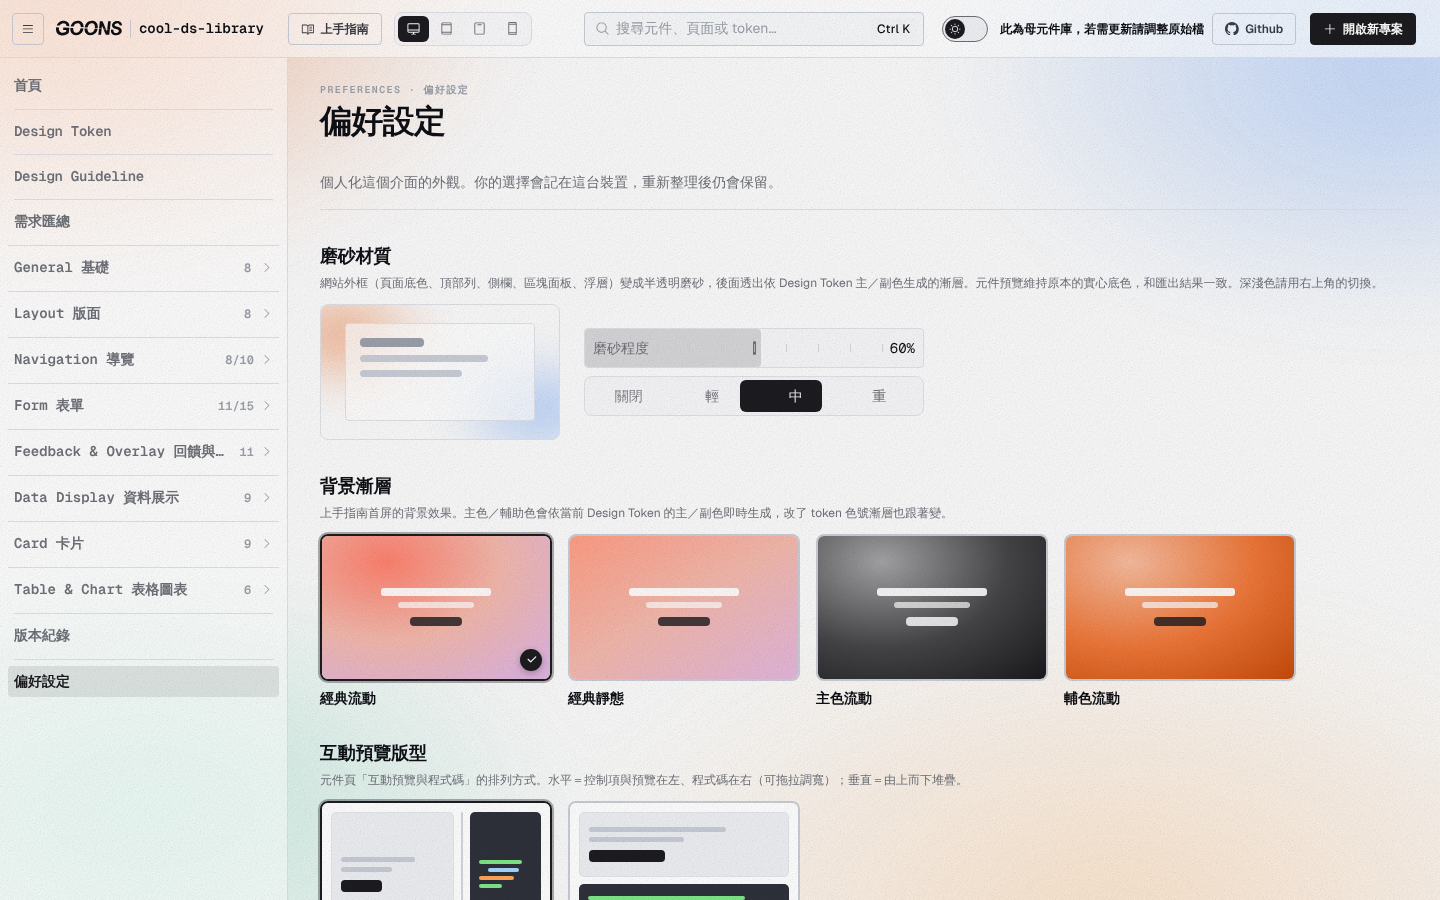
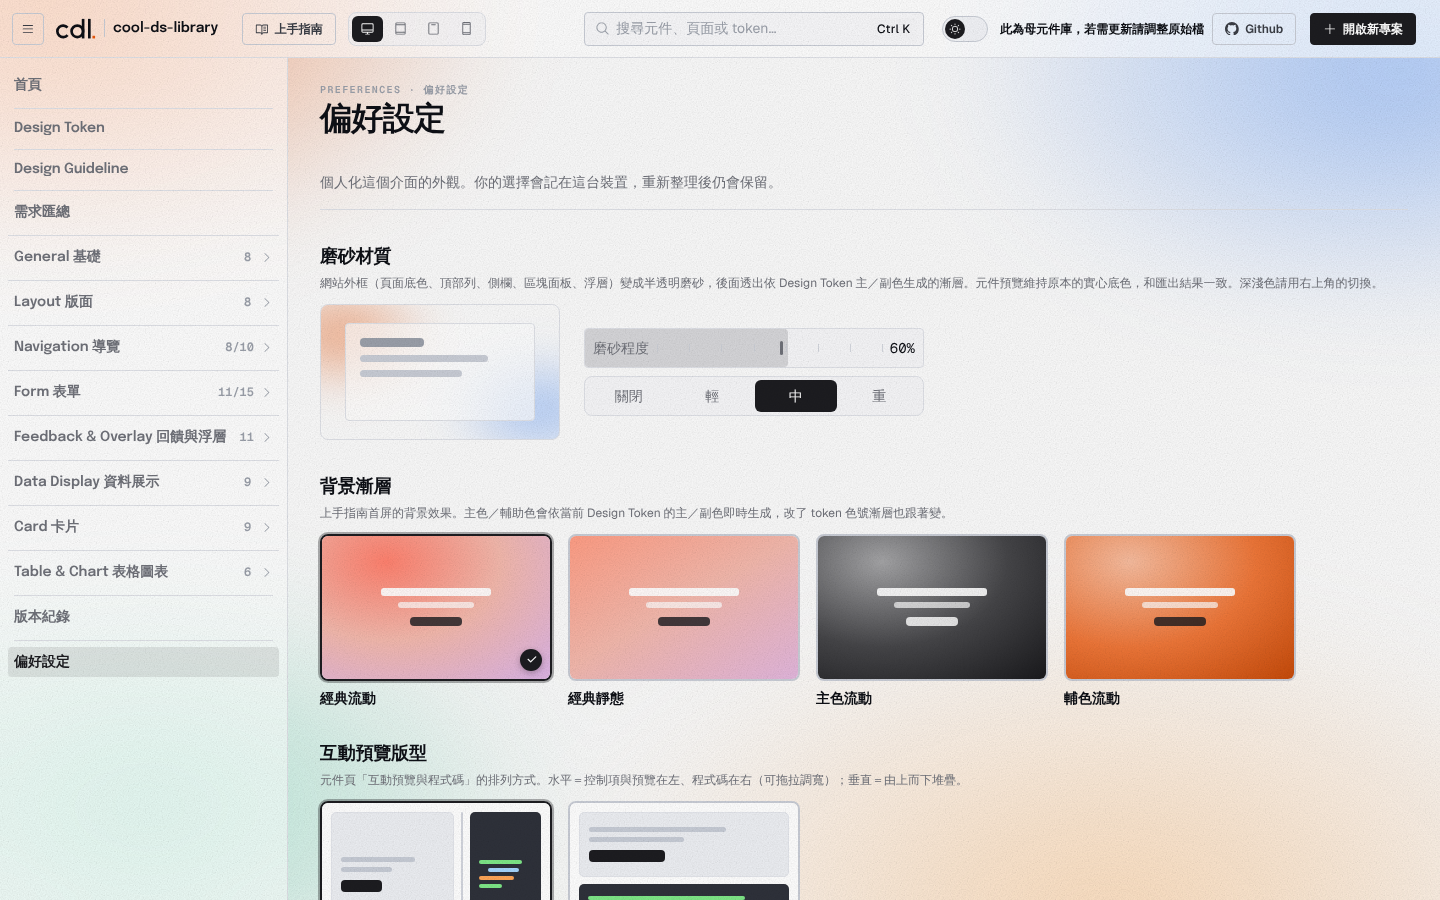
標題字改 Epilogue；slogan 全大寫鎖高、hero 留白；試玩區裝置外框與手機限高；soft 按鈕背景模糊
Claude-Session: https://claude.ai/code/session_01CmQ4iyNRJerm1iu8i6cuQt

diff --git a/library/gallery.html b/library/gallery.html
@@ -1,6 +1,8 @@
 <meta charset="utf-8">
 <meta name="viewport" content="width=device-width, initial-scale=1, viewport-fit=cover">
 <title>cool-ds-library</title>
+<link rel="preconnect" href="https://fonts.googleapis.com"><link rel="preconnect" href="https://fonts.gstatic.com" crossorigin>
+<link rel="stylesheet" href="https://fonts.googleapis.com/css2?family=Epilogue:wght@400;500;600;700;800&display=swap">
 <script>/* SHELL8:v1 框內載入進度：文件開始解析 */try{if(/[?&]rwdframe=1(&|$)/.test(location.search)&&window.parent!==window)window.parent.postMessage({rwdframe:1,t:'stage',s:'head'},'*');}catch(e){}</script>
[1 lines of base64/hex data omitted]
 <style>
@@ -43,6 +45,7 @@
     /* ── L1 Primitive · Typography（Geist 內嵌；size H1–H12、weight、line-height；對齊 Web Guideline 12 階）── */
     --font-sans:'Geist',-apple-system,BlinkMacSystemFont,"Segoe UI","PingFang TC","Noto Sans TC",system-ui,sans-serif;
     --font-mono:'Geist Mono',ui-monospace,"SF Mono",Menlo,"PingFang TC","Noto Sans TC",monospace;
+    --font-display:'Epilogue','Geist',-apple-system,BlinkMacSystemFont,"PingFang TC","Noto Sans TC",system-ui,sans-serif;  /* 標題／側欄／hero 用 display 字 */
     --fs-h1:64px; --fs-h2:56px; --fs-h3:48px; --fs-h4:40px; --fs-h5:32px; --fs-h6:24px;
     --fs-h7:20px; --fs-h8:18px; --fs-h9:16px; --fs-h10:14px; --fs-h11:12px; --fs-h12:10px;
     --fw-regular:400; --fw-medium:500; --fw-semibold:600; --fw-bold:700;
@@ -401,14 +404,13 @@
   section.block{margin:var(--sp-7) 0 0;}
   /* 段落標題統一成 Design Token 段（.tok-sec-head）樣式：mono h8 標題＋同行 muted h11 副標＋2px ink 底線 */
   .block > h2{display:flex;flex-direction:column;gap:var(--sp-1);margin:0 0 var(--sp-5);padding-bottom:var(--sp-2);border-bottom:2px solid var(--ink);font-weight:400;}  /* 副標放標題下方 */
-  .block > h2 .bh-t{font-family:var(--font-mono);font-size:var(--fs-h8);font-weight:600;color:var(--ink);}
+  .block > h2 .bh-t{font-family:var(--font-display);font-size:var(--fs-h8);font-weight:600;color:var(--ink);}
   .block > h2 .bh-d{font-size:var(--fs-h11);color:var(--muted);} .block > h2 .bh-d code{font-family:var(--font-mono);background:var(--panel-2);padding:1px 5px;border-radius:var(--r-sm);}
   .block > .sub{color:var(--faint);font-size:var(--fs-h11);margin:0 0 var(--sp-5);} .block > .sub code{font-family:var(--font-mono);background:var(--panel-2);padding:1px 5px;border-radius:var(--r-sm);}
-  /* 站台 chrome 文字：英文用 Geist Mono（技術風格），中文自動 fallback PingFang；元件庫元件維持 sans（見 body 預設） */
-  .brand-title,h1,.lede,.block>.sub,.dial h2,.dial .hint,.spec .cell .v,
-  .vpanel .vtitle .vname,.vpanel .vtitle .vdesc,.nav-item .nm,.nav-group .gh .gh-t,
-  .famhead .fz,.placeholder h2,.placeholder p,.site-footer,
-  .sc-name,.sumcat-t,.sr-name,.st-name,.tok-gh .t,.tok-gh .d,.dh-title,
+  /* 站台 chrome 文字（2026-11-04 起）：標題類用 display 字（Epilogue），說明文字回到內文 sans；Geist Mono 只留給程式碼、token 名稱與小型標籤 */
+  .brand-title,h1,.dial h2,.vpanel .vtitle .vname,.nav-item .nm,.nav-item,.nav-pin,.nav-group .gh .gh-t,
+  .famhead .fz,.placeholder h2,.sc-name,.sumcat-t,.sr-name,.st-name,.tok-gh .t,.dh-title,.block > h2 .bh-t,.hx-h1{font-family:var(--font-display);}
+  .lede,.block>.sub,.dial .hint,.spec .cell .v,.vpanel .vtitle .vdesc,.placeholder p,.site-footer,.tok-gh .d{font-family:var(--font-sans);}
   .tok-tab,.tokbtn,.copybtn{font-family:var(--font-mono);}
 
   .panels{display:flex;flex-direction:column;gap:var(--sp-4);}
@@ -461,6 +463,7 @@
   .v-text.st-hover{background:var(--tint);}
   .v-text.st-pressed{background:var(--tint2);transform:scale(.97);}
   .v-soft{background:var(--tint);color:var(--fg);border-color:transparent;}
+  .btn.v-soft{-webkit-backdrop-filter:blur(var(--btn-blur,12px)) saturate(1.2);backdrop-filter:blur(var(--btn-blur,12px)) saturate(1.2);}  /* soft 底是半透明 tint：加背景模糊，放在圖片／漸層上也讀得清楚 */
   .v-soft.st-hover{background:var(--tint2);}
   .v-soft.st-pressed{background:var(--tint2);transform:scale(.97);}
   .st-disabled{opacity:.42;cursor:not-allowed;transform:none !important;}
@@ -4184,7 +4187,7 @@ button.chtx-lgi[aria-pressed="false"] .chtx-sw{background:transparent !important
   .dgt-tab{padding:var(--sp-2) var(--sp-4);border:0;background:transparent;border-radius:var(--r-sm);font-family:var(--font-mono);font-size:var(--fs-h11);color:var(--muted);cursor:pointer;white-space:nowrap;transition:.12s;}
   .dgt-tab:hover{color:var(--ink);}
   .dgt-tab.on{background:var(--panel);color:var(--ink);box-shadow:0 1px 2px rgba(0,0,0,.07);}
-  .nav-item.nav-mono{font-family:var(--font-mono);letter-spacing:-0.02em;}
+  .nav-item.nav-mono{font-family:var(--font-display);letter-spacing:-0.01em;}
   .nav-guide-m{display:none;}                                         /* 上手指南選單項：桌機在 topbar，這裡隱藏 */
   @media(max-width:767px){.nav-guide-m{display:flex;}}               /* 手機 topbar 收起後，改由選單頂端進入上手指南 */
   /* 選單底部：版本號＋母元件庫說明（手機 topbar badge 收起後改在此顯示；釘在選單底部） */
@@ -5110,10 +5113,10 @@ button.chtx-lgi[aria-pressed="false"] .chtx-sw{background:transparent !important
     -webkit-mask-image:linear-gradient(180deg,#000 78%,transparent);mask-image:linear-gradient(180deg,#000 78%,transparent);}
   /* 版面參考 designsystems.surf：靠左大標（尾字打字輪播）→ 下一列左 CTA／右補充說明 → 細線＋mono 標籤列 → 全寬展示框 */
   .hx-hero-in{display:flex;flex-direction:column;gap:clamp(32px,4vw,48px);max-width:1180px;margin:0 auto;}
-  .hx-copy{display:grid;grid-template-columns:minmax(0,1fr);grid-template-areas:"h1" "cta" "lede";justify-items:start;column-gap:clamp(24px,6vw,96px);row-gap:var(--sp-6);align-items:end;min-width:0;}
+  .hx-copy{padding-block:clamp(40px,7vw,104px) clamp(32px,5vw,72px);display:grid;grid-template-columns:minmax(0,1fr);grid-template-areas:"h1" "cta" "lede";justify-items:start;column-gap:clamp(24px,6vw,96px);row-gap:var(--sp-6);align-items:end;min-width:0;}
   .hx-pill{grid-area:pill;justify-self:start;}
   .hx-h1 .hx-l1,.hx-h1 .hx-l2{transition:opacity var(--dur-default) var(--ease-out);} .hx-h1.is-swap .hx-l1,.hx-h1.is-swap .hx-l2{opacity:0;}
-  .hx-h1.is-en{letter-spacing:-.035em;}
+  .hx-h1.is-en{letter-spacing:-.02em;text-transform:uppercase;}  /* 英文 slogan 全大寫 */
   .hx-h1{grid-area:h1;max-width:15em;}
   .hx-cta{grid-area:cta;}
   .hx-lede{grid-area:lede;}
@@ -5143,7 +5146,7 @@ button.chtx-lgi[aria-pressed="false"] .chtx-sw{background:transparent !important
   .hx-lede{margin:calc(var(--sp-6) * -1 + var(--sp-4)) 0 0;max-width:620px;color:var(--muted);font-size:var(--fs-h10);line-height:var(--lh-relaxed);text-wrap:pretty;}
   .hx-cta{display:flex;gap:var(--sp-3);flex-wrap:wrap;}
   .hx-win-h{display:flex;align-items:baseline;gap:var(--sp-3);margin:0 0 calc(-1*var(--sp-5));flex-wrap:wrap;}
-  .hx-win-h h2{margin:0;font-size:var(--fs-h7,var(--fs-h6));font-weight:var(--fw-semibold);letter-spacing:-.01em;}
+  .hx-win-h h2{margin:0;font-family:var(--font-display);text-wrap:balance;font-size:var(--fs-h7,var(--fs-h6));font-weight:var(--fw-semibold);letter-spacing:-.01em;}
 
   /* 試玩區：左側控制面板（sticky）＋右側預覽；覆寫只寫在 #hxPv */
   /* HOME4-PLAY:v1 操作區＋展示區＝同一張牌卡：外框／圓角／陰影只在 .hx-pgx；左右欄 stretch 等高。
@@ -5528,13 +5531,31 @@ button.chtx-lgi[aria-pressed="false"] .chtx-sw{background:transparent !important
     .hx-hero,.hx-pgx{overflow:clip;}  /* hidden 會讓 sticky 失效；clip 視覺相同 */
     .hx-pnl{display:none;}
     .hx-pv{scroll-margin-top:72px;}
-    .hx-tokdock{display:flex;padding:var(--sp-4) var(--sp-4) 0;}  /* 放在試玩卡最上方、不懸浮 */
+    .hx-tokdock{display:flex;padding:var(--sp-4);}  /* 放在試玩卡最上方、不懸浮 */
     .hx-toktb{display:flex;align-items:center;gap:var(--sp-2);width:100%;}
     .hx-toktb-l{margin-right:auto;font-size:var(--fs-h10);font-weight:var(--fw-semibold);color:var(--ink);}
     .hx-toktb .hx-tokfab-n[hidden]{display:none;}
     .hx-toktb .hx-tokfab-n{min-width:22px;justify-content:center;font-variant-numeric:tabular-nums;}
     .hx-grp-hl{animation:hx-grp-hl 1.2s var(--ease-out);border-radius:var(--r-sm);}
     @keyframes hx-grp-hl{0%,40%{background:color-mix(in srgb,var(--accent) 10%,transparent);}100%{background:transparent;}}
+  }
+
+  /* 試玩預覽的裝置 mockup：桌機＝瀏覽器視窗（頂列三點＋網址）、平板＝平板邊框、手機＝手機邊框＋動態島；手機限高 80vh、內部捲動 */
+  .hx-pv{margin:var(--sp-5);border:1px solid var(--line);border-radius:var(--r-md);overflow:hidden;align-self:start;}
+  .hx-pv::before{content:"spring-campaign.cdl.app";order:-1;flex:0 0 auto;display:flex;align-items:center;justify-content:center;height:36px;
+    margin:calc(-1 * var(--sp-6)) calc(-1 * var(--sp-6)) 0;padding:0 72px;border-bottom:1px solid var(--line);
+    background:radial-gradient(circle at 16px 50%,#FF5F57 0 4px,transparent 4.5px),radial-gradient(circle at 30px 50%,#FEBC2E 0 4px,transparent 4.5px),radial-gradient(circle at 44px 50%,#28C840 0 4px,transparent 4.5px),var(--panel-2);
+    font-family:var(--font-mono);font-size:var(--fs-h12);color:var(--faint);letter-spacing:.02em;white-space:nowrap;overflow:hidden;text-overflow:ellipsis;}
+  @media(max-width:767px){
+    .hx-pv{margin:var(--sp-4);border:10px solid var(--c-neutral-900);border-radius:22px;box-shadow:0 0 0 1px var(--line);}
+    .hx-pv::before{content:"";height:10px;margin:calc(-1 * var(--sp-4)) calc(-1 * var(--sp-4)) 0;padding:0;border:0;
+      background:radial-gradient(circle at 50% 50%,var(--c-neutral-700) 0 3px,transparent 3.5px),var(--c-neutral-900);}
+  }
+  @media(max-width:599px){
+    .hx-pv{border-width:8px;border-radius:30px;max-height:80vh;max-height:80dvh;overflow-y:auto;overscroll-behavior:contain;scrollbar-width:none;}
+    .hx-pv::-webkit-scrollbar{display:none;}
+    .hx-pv::before{position:sticky;top:calc(-1 * var(--sp-4));z-index:3;height:28px;
+      background:radial-gradient(ellipse 44px 11px at 50% 55%,var(--c-neutral-900) 0 100%,transparent 101%),var(--canvas);}
   }
   @media(prefers-reduced-motion:reduce){
     .hx-sw-b:hover{transform:none;}
@@ -15597,6 +15618,12 @@ function buildScheduleChart(view){
     let g=0,i=0,n=L[0].W[0].length,del=false;el.textContent=L[0].W[0];
     const box=el.closest('.hx-type')||el.parentNode;const tone=k=>{if(box)box.dataset.w=String(k);};tone(0);
     const setLang=k=>{if(!h1)return;h1.lang=k?'zh-Hant':'en';h1.classList.toggle('is-en',!k);if(l1)l1.textContent=L[k].l1;if(l2)l2.textContent=L[k].l2;};setLang(0);
+    /* 鎖高度：量兩種語言 × 每個詞的最大高度設為 min-height，換字／換語言時標題下方內容不跳動 */
+    const lockH=()=>{if(!h1||!l1||!l2||!h1.isConnected)return;const sv=[l1.textContent,l2.textContent,el.textContent,h1.classList.contains('is-en'),h1.lang];h1.style.minHeight='';let mx=0;
+      L.forEach((lg,k)=>{l1.textContent=lg.l1;l2.textContent=lg.l2;h1.classList.toggle('is-en',!k);lg.W.forEach(w=>{el.textContent=w;mx=Math.max(mx,h1.getBoundingClientRect().height);});});
+      l1.textContent=sv[0];l2.textContent=sv[1];el.textContent=sv[2];h1.classList.toggle('is-en',sv[3]);h1.lang=sv[4];h1.style.minHeight=Math.ceil(mx)+'px';};
+    lockH();if(document.fonts&&document.fonts.ready)document.fonts.ready.then(lockH);
+    {let rt;addEventListener('resize',()=>{clearTimeout(rt);rt=setTimeout(lockH,150);});}
     if(HX_REDUCE())return;
     const tick=()=>{if(!el.isConnected)return;let wait=chtxMs('--dur-fast')*(g?1:.6);
       if(!document.hidden){const W=L[g].W;
@@ -15663,7 +15690,7 @@ function buildScheduleChart(view){
           <div class="hx-cta" id="hxCta"></div>
           <p class="hx-lede">${ready} 個元件共用同一套 Design Token。改一個值，網站、程式碼與 Figma Variables 會一起更新。</p>
         </div>
-        <div class="hx-win-h"><h2>玩玩看</h2></div>
+        <div class="hx-win-h"><h2>親手調一組 token，看整個介面跟著變</h2></div>
         <div class="hx-pgx" id="hxPgx">
           <aside class="hx-pnl" id="hxPnl" aria-label="Token 試玩控制">
             <span class="hx-pnl-n" id="hxPnlN" hidden></span>
@@ -17075,6 +17102,7 @@ ${s.text.trim()?'\n## 附錄：貼上的資料\n\n```\n'+s.text.trim()+'\n```\n'
   function tokStylePackFiles(){
     const SANS="'Geist', -apple-system, BlinkMacSystemFont, 'Segoe UI', 'PingFang TC', 'Noto Sans TC', system-ui, sans-serif";
     const MONO="'Geist Mono', ui-monospace, 'SF Mono', Menlo, 'PingFang TC', 'Noto Sans TC', monospace";
+    const DISP="'Epilogue', 'Geist', -apple-system, BlinkMacSystemFont, 'PingFang TC', 'Noto Sans TC', system-ui, sans-serif";
     const HD=t=>'/* ============================================================\n   CDL · '+t+'\n   由 Design Token 頁輸出 · 命名為 source of truth\n   ============================================================ */\n\n';
     // _breakpoints.scss：對齊 token RWD 分層（mobile <768 / tablet 768–1023 / desktop ≥1024），mixin API 比照同事既有慣例
     const F_BP=HD('_breakpoints.scss｜斷點變數與 mixin')+
@@ -17093,8 +17121,8 @@ ${s.text.trim()?'\n## 附錄：貼上的資料\n\n```\n'+s.text.trim()+'\n```\n'
       '  @else { @warn "Unsupported breakpoint: #{$bp}"; }\n}\n';
     // _font.scss：Latin 走 Geist / Geist Mono（Google Fonts），中文 CJK 走系統字 per-character fallback
     const F_FONT=HD('_font.scss｜字體設定')+
-      "@import url('https://fonts.googleapis.com/css2?family=Geist:wght@100..900&family=Geist+Mono:wght@100..900&display=swap');\n\n"+
-      ':root {\n  --font-sans: '+SANS+';\n  --font-mono: '+MONO+';\n}\n\nbody {\n  font-family: var(--font-sans);\n  -webkit-font-smoothing: antialiased;\n}\n';
+      "@import url('https://fonts.googleapis.com/css2?family=Geist:wght@100..900&family=Geist+Mono:wght@100..900&family=Epilogue:wght@400..800&display=swap');\n\n"+
+      ':root {\n  --font-sans: '+SANS+';\n  --font-mono: '+MONO+';\n  --font-display: '+DISP+';\n}\n\nbody {\n  font-family: var(--font-sans);\n  -webkit-font-smoothing: antialiased;\n}\n';
     // layout.scss：reset —— 清各瀏覽器原生樣式差異；保留 focus-visible（鍵盤操作仍看得到焦點，a11y）
     const F_LAYOUT=HD('layout.scss｜reset（清原生樣式、統一各瀏覽器基準）')+
       '*, *::before, *::after { box-sizing: border-box; }\n* { word-wrap: break-word; }\n\n'+

diff --git a/library/CHANGELOG.md b/library/CHANGELOG.md
@@ -6,6 +6,13 @@
 
 ---
 
+## 2026-11-04（二十七）　標題字改 Epilogue；首頁 slogan、試玩區裝置外框
+
+- **Display 字體改為 Epilogue**（新增 `--font-display` token）：頁面標題、側欄項目、段落標題、品牌名稱、首頁 slogan 改用 Epilogue；說明文字回到內文 Geist；Geist Mono 只留給程式碼、token 名稱與小型標籤。樣式包 `_font.scss` 同步輸出 `--font-display`。
+- **首頁 slogan**：英文全大寫；預先量測兩種語言所有詞的最大高度並鎖定，換字時下方按鈕不再上下跳動；hero 上下留白加大。
+- **試玩區**：段落標題改為「親手調一組 token，看整個介面跟著變」；預覽外加裝置外框——桌機為瀏覽器視窗（三點＋網址列）、平板為平板邊框、手機為手機邊框＋動態島，手機限高 80vh、內部捲動。手機工具列補上底部 padding。
+- **Button soft**：加上背景模糊（`backdrop-filter`），放在漸層或圖片上更清楚。
+
 ## 2026-11-04（二十六）　手機試玩改分組工具列、浮動列離邊、編輯中停用開新專案
 
 - **手機試玩**：「調整 token」大按鈕改成一列工具列——左側標題＋四顆 icon-only Button（顏色／形狀／文字／間距與動態，Phosphor icon）＋已改數 Tag；點任一顆開底部抽屜並自動捲到該分組，分組短暫高亮。
